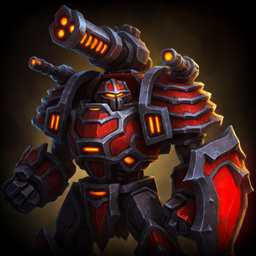
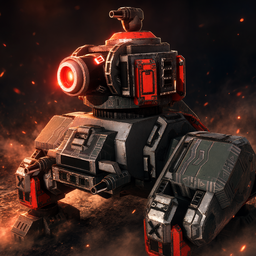
heroes art: Qwen-Image-2.1 edit portraits for 12 T4 heroes and 30 T2 base models from in-engine renders; render driver, prompt template, contact sheet

diff --git a/tools/heroes/portrait_prompts.py b/tools/heroes/portrait_prompts.py
@@ -1,0 +1,19 @@
+import sys
+VEH = set("armbull armmanni armmerl corgol correap corban cortrem legaskirmtank legaheattank legvcarry legmed armt4zeus legt4longinus".split())
+LOW = set("armspid armsptk armt4olympus legt4starfall legsrail leghrk cortermite armfido corhrk cort4armageddon cort4bastion corsumo corcan".split())
+COL = {"arm": "Armada blue", "cor": "Cortex red and orange", "leg": "Legion green and gold"}
+def prompt(u):
+    kind = "vehicle" if u in VEH else "robot"
+    col = COL[u[:3]]
+    if u in VEH:
+        frame = "a heroic low three-quarter front close-up of the whole vehicle that fills the frame"
+    elif u in LOW:
+        frame = "a heroic low three-quarter front view of the whole machine, close-up, filling the frame"
+    else:
+        frame = "a heroic low camera angle, head-and-shoulders and upper body framing that fills the frame"
+    return (f"Keep the exact {kind} from image1 unchanged in design: same silhouette, same armor plates, same weapons, "
+            f"same paint colors and markings. Turn the picture into a dramatic hero portrait card for a sci-fi strategy game: "
+            f"{frame}, cinematic rim light in {col}, glowing eyes and sensors, dark atmospheric battlefield background "
+            f"with sparks, embers and smoke, painted sci-fi game art, high detail. No text, no letters, no frame.")
+if __name__ == "__main__":
+    print(prompt(sys.argv[1]))
